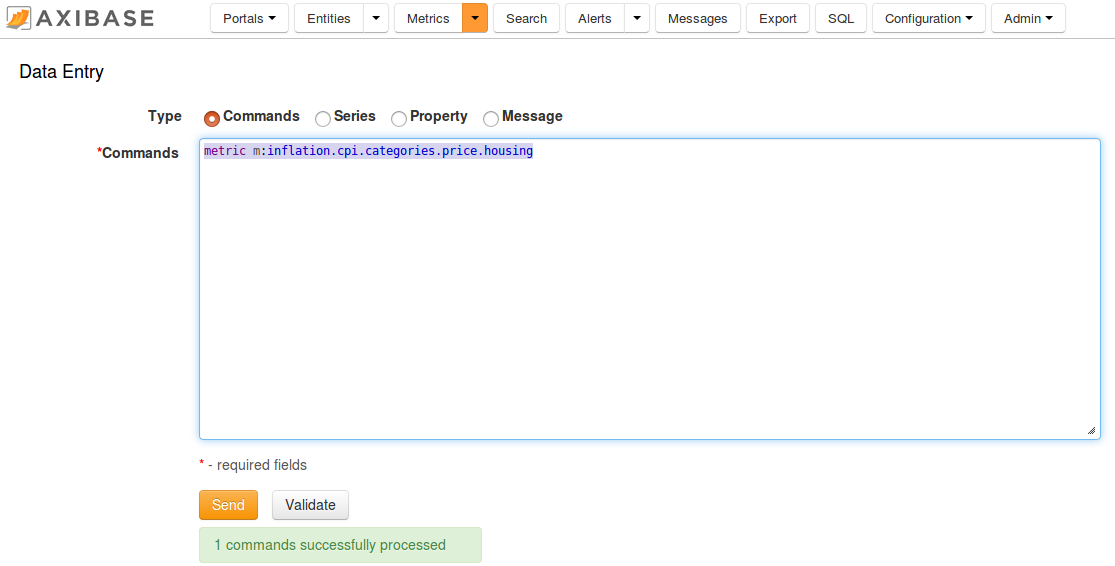
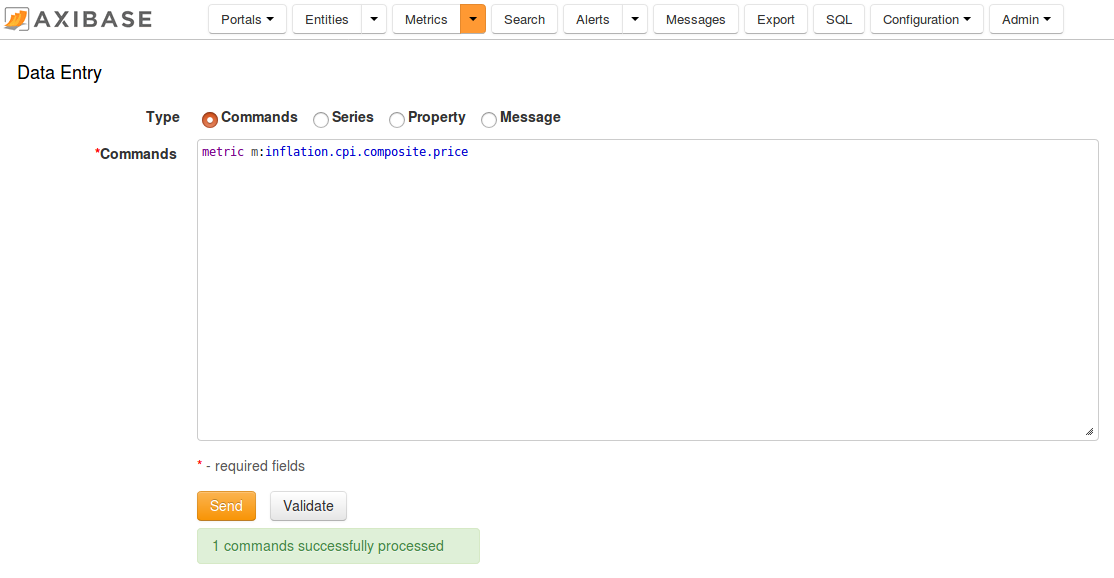
instruction finished

diff --git a/integration/spss/modeler/README.md b/integration/spss/modeler/README.md
@@ -22,6 +22,8 @@ these commands on the **Metrics > Data Entry** page.
 
 ![](images/metrics_entry.png)
 
+Also you can download ready [stream file](resources/Stream.str) for review in your own IBM SPSS Modeler installation.
+
 ## Prerequisites
 
 - Install [IBM SPSS Modeler](http://www-01.ibm.com/support/docview.wss?uid=swg24039399), version 18
@@ -33,7 +35,7 @@ these commands on the **Metrics > Data Entry** page.
 
   ![](images/modeler_1.png)
 
-- Add the **Database** source to your model
+- Add the **Database** source to your stream
 
   ![](images/modeler_2.png)
 
@@ -97,7 +99,7 @@ First 10 rows should be shown in preview table
 ## Join two tables
 
 - In the bottom panel of IBM SPSS Modeler select **Record Ops** tab, choose **Merge** node and
-add it to model
+add it to stream
 
   ![](images/modeler_16.png)
   
@@ -137,7 +139,7 @@ in `inflation.cpi.categories.weight` to `weight`
 ## Calculate weighted price for every row
 
 - In the bottom panel of IBM SPSS Modeler select **Field Ops** tab, choose **Derive** node and
-add it to model
+add it to stream
 
   ![](images/modeler_24.png)
   
@@ -159,7 +161,7 @@ add it to model
 ## Calculate weighted inflation index for each year
 
 - In the bottom panel of IBM SPSS Modeler select **Record Ops** tab, choose **Aggregate** node and
-add it to model
+add it to stream
 
   ![](images/modeler_28.png)
   
@@ -189,7 +191,7 @@ and disable **Include record count in field** checkbox.
 ## Add constant entity field
 
 - In the bottom panel of IBM SPSS Modeler select **Field Ops** tab, choose **Derive** node and
-add it to model
+add it to stream
 
   ![](images/modeler_34.png)
   
@@ -213,7 +215,47 @@ add it to model
 - Log in ATSD web interface, go to **Metrics > Data Entry** page and execute command
 
 ```
-metric m:inflation.cpi.categories.price.housing
+metric m:inflation.cpi.composite.price
 ```
 
 ![](images/metric_creation.png)
+
+## Export result to ATSD
+
+- In the bottom panel of IBM SPSS Modeler select **Export** tab, choose **Database** node and
+add it to stream
+
+  ![](images/modeler_38.png)
+  
+- Connect **Derive** (entity) and **Database** nodes
+
+  ![](images/modeler_39.png)
+  
+- Right click on the **Database** node and select **Edit...**. Choose **Data source**, select
+**Insert into table** option. Click **Select...** and choose `inflation.cpi.composite.price` table.
+Also set **Quote table and column names** to **Never**
+
+  ![](images/modeler_40.png)
+  
+- Click **Advanced...** button
+
+  ![](images/modeler_41.png)
+  
+- In Advanced Options window set **Use bulk loading** to **Via ODBC** and **Use binding** to
+**Row-wise**. Click **OK** to save and exit.
+
+  ![](images/modeler_42.png)
+  
+- Click **Run** to export data to ATSD
+
+  ![](images/modeler_43.png)
+
+- To check that data is successfully exported to ATSD go to ATSD web interface, click **SQL** and execute
+following query
+
+```sql
+SELECT entity, datetime, value 
+FROM 'inflation.cpi.composite.price'
+```
+
+  ![](images/atsd_query_result.png)
